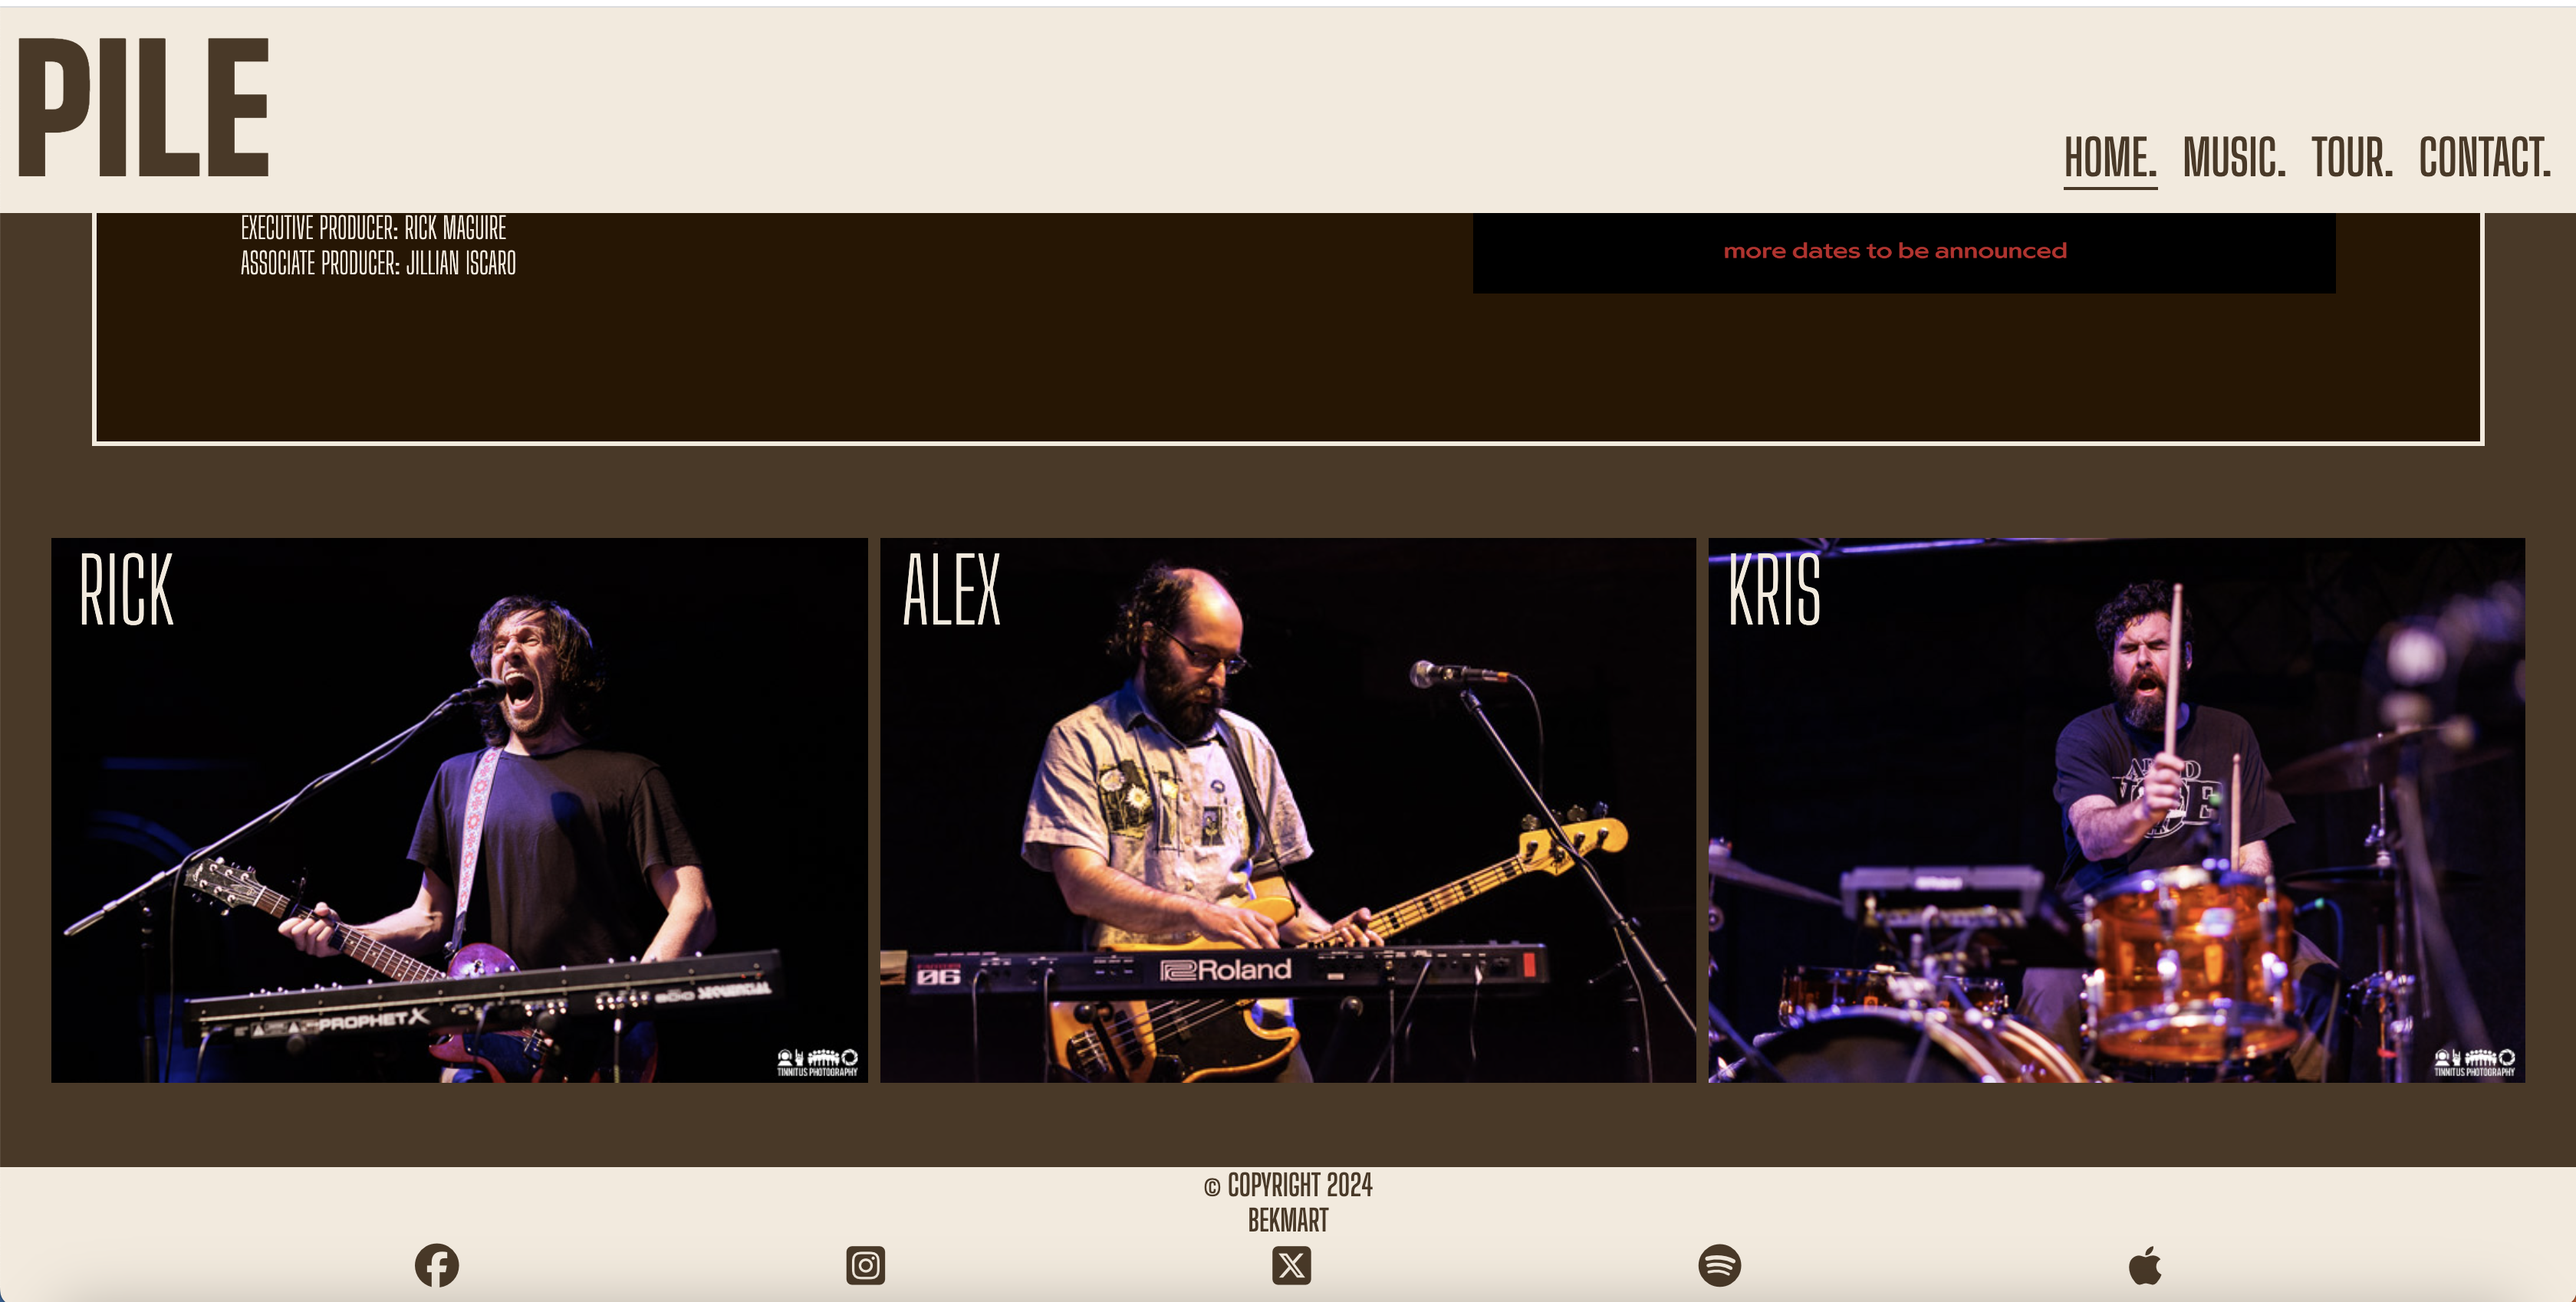
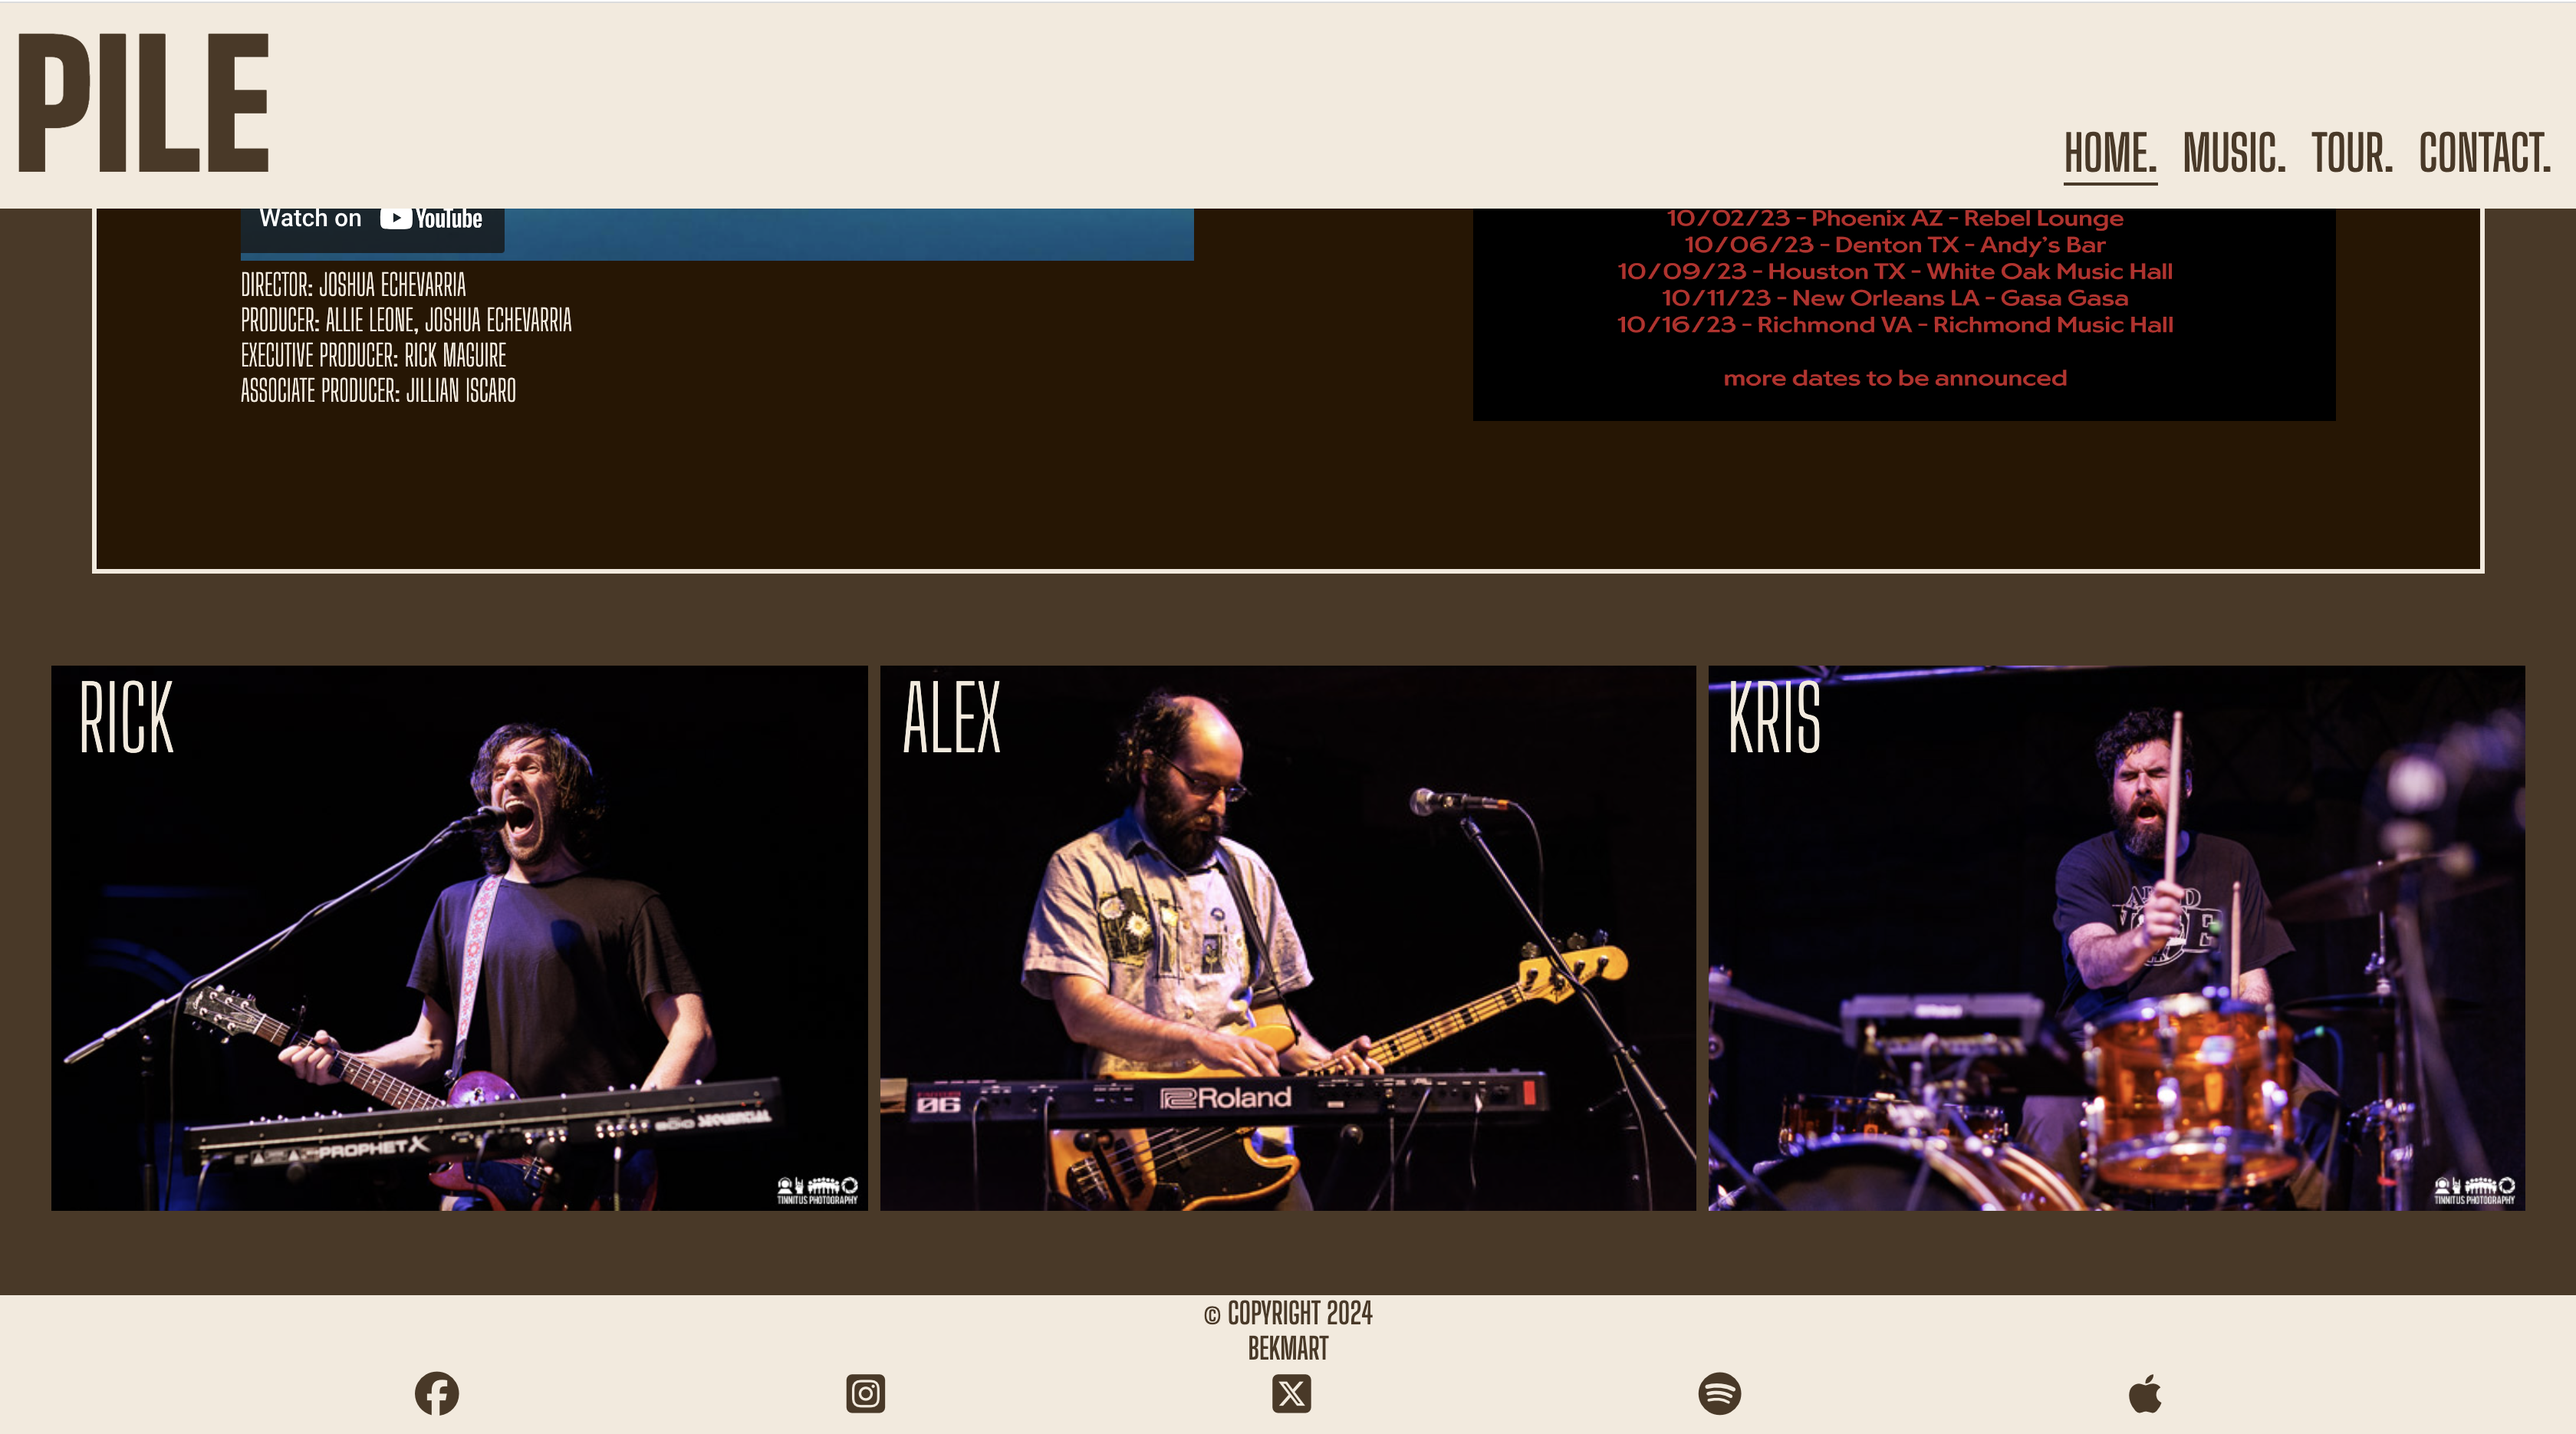
Style contact page

diff --git a/assets/css/style.css b/assets/css/style.css
@@ -293,6 +293,7 @@ td a {
     flex-direction: column;
     flex-wrap: nowrap;
     margin-bottom: 30px;
+    padding: 3%;
 }
 
 /* Social media links */
@@ -311,7 +312,8 @@ td a {
 
 /* Newsletter section */
 #newsletter {
-    margin: 0 20% 10% 5%;
+    margin: 10px 20% 30px 5%;
+    padding: 3%;
     text-align: left;
     font-size: 2rem;
 }
@@ -331,7 +333,7 @@ td a {
     font-weight: 800;
     text-transform: uppercase;
     font-family: 'Big Shoulders Display';
-    margin: 20px 0;
+    margin: 30px 0;
 }
 
 /* Success & 404 error pages */
@@ -415,21 +417,6 @@ footer {
         font-size: 120%;
     }
 
-    /* Newsletter section */
-    #newsletter {
-        margin: 5% 5% 20% 5%;
-        position: relative;
-    }
-
-    /* Move input field to the left of the label */
-    #newsletter input {
-        position: absolute;
-    }
-
-    #submit-button {
-        margin-top: 20px;
-    }
-
     /* Success & 404 error pages */
     #success p,
     #invalid p {
@@ -443,6 +430,21 @@ footer {
     /* Hero image */
     #hero {
         height: 400px;
+    }
+
+    /* Newsletter section */
+    #newsletter {
+        margin: 10px 5% 20% 5%;
+        position: relative;
+    }
+
+    /* Move input field to the left of the label */
+    #newsletter input {
+        position: absolute;
+    }
+
+    #submit-button {
+        margin-top: 20px;
     }
 }
 
@@ -648,7 +650,7 @@ footer {
         flex-direction: row;
         flex-wrap: wrap;
         justify-content: space-around;
-        padding: 0% 5% 5%;
+        padding: 3% 5% 5%;
     }
 
     /* Style social media links */
@@ -660,6 +662,7 @@ footer {
 
     /* Newsletter section */
     #newsletter {
+        padding: 3%;
         width: 70vw;
         font-size: 2.5rem;
     }
@@ -859,15 +862,15 @@ footer {
     /* Social media section - to keep grid effect */
     #follow {
         gap: 30px;
-        margin: 0 auto 7%;
+        margin: 0 auto 5%;
         max-width: 930px;
-        padding: 0;
+        padding: 2%;
     }
 
     /* Newsletter section */
     #newsletter {
         width: 60vw;
-        padding-left: 22%;
+        padding: 2% 0 0 22%;
     }
 
     /* Form input fields */

diff --git a/README.md b/README.md
@@ -422,7 +422,7 @@ Visit the live website [here.](https://bekmart.github.io/pile_fansite/)
 [Back to Contents](#contents)
 <hr>
 
-[responsive]: assets/images/responsive-screen.png
+[responsive]: assets/images/responsive.png
 [navbar]: assets/images/navbar-screen.png
 [footer]: assets/images/footer-screen.png
 [hero]: assets/images/home-screen.png
